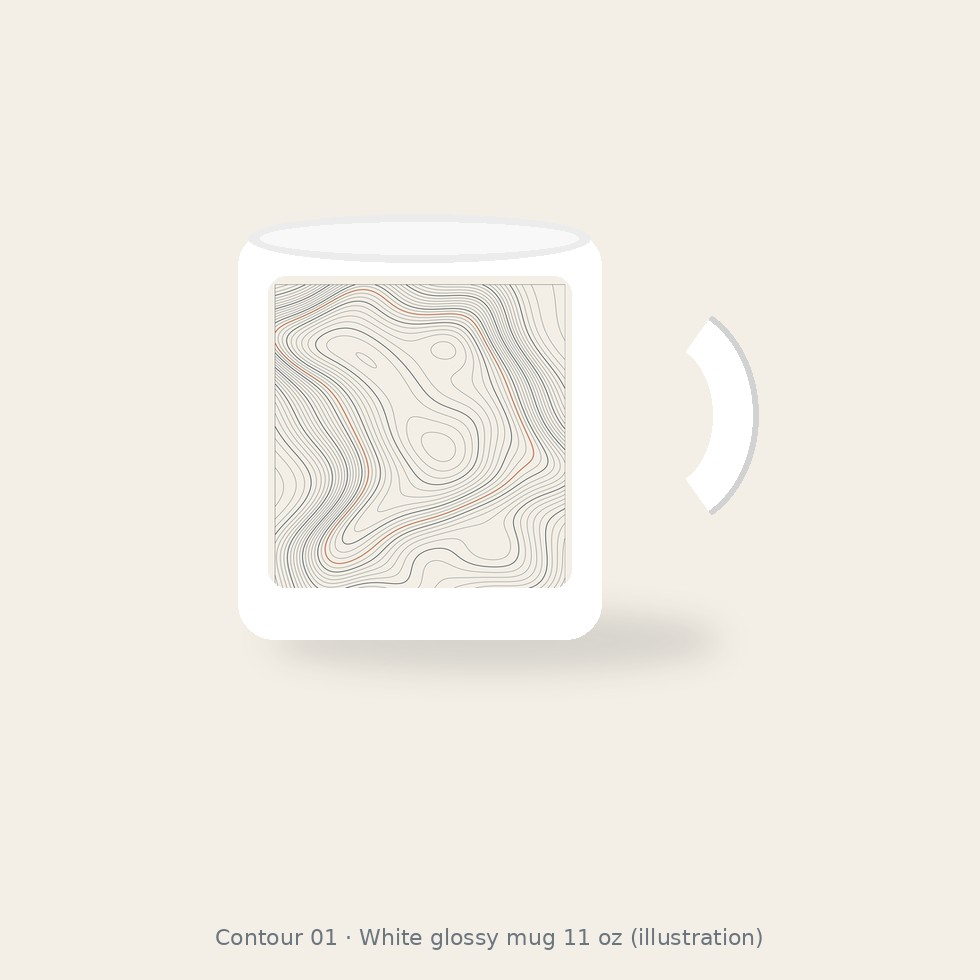
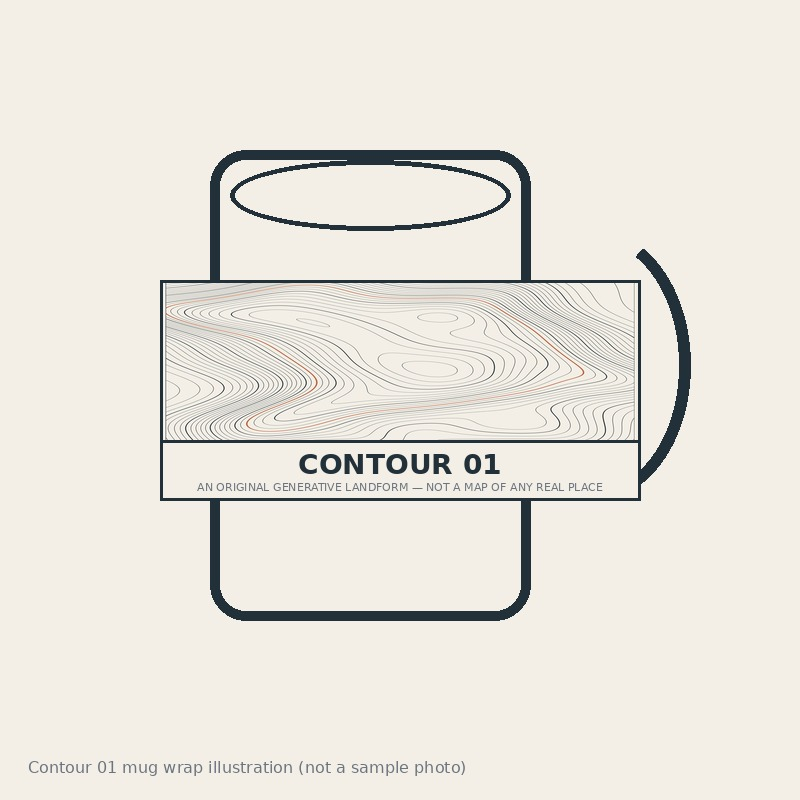
Match tapestry and mug listings to attached previews (#21)
Recreate Contour 01 preview JPGs and add catalog numbers plus required honest notes. Shop cards, prices, and buy URLs from #20 are unchanged.

Changed region(s): [[0.1875, 0.1875, 0.875, 0.7812], [0.0312, 0.9375, 0.7812, 0.9688]]

diff --git a/tapestry/index.html b/tapestry/index.html
@@ -13,6 +13,7 @@
   header .wrap { display:flex; justify-content:space-between; align-items:baseline; }
   .brand { font-weight:700; letter-spacing:0.12em; font-size:0.9rem; text-transform:uppercase; }
   .brand-sub { font-size:0.78rem; color:var(--muted); }
+  header a { color:inherit; }
   .hero { display:grid; grid-template-columns:1fr 1fr; gap:48px; padding:56px 0; align-items:start; }
   @media (max-width:800px){ .hero { grid-template-columns:1fr; } }
   .art img { width:100%; display:block; background:#fff; box-shadow:0 18px 45px rgba(34,48,58,0.22); border:1px solid rgba(34,48,58,0.15); }
@@ -39,6 +40,7 @@
   .fact a { color:var(--ink); }
   footer { border-top:1px solid var(--ink); padding:22px 0 34px; font-size:0.78rem; color:var(--muted); }
   footer p + p { margin-top:6px; }
+  footer a { color:inherit; }
 </style>
 </head>
 <body>
@@ -48,69 +50,62 @@
       <div class="brand">TurboFounder Inc</div>
       <div class="brand-sub">Sold and shipped from the United States</div>
     </div>
-    <div class="brand-sub">Print shop &mdash; v1</div>
+    <div class="brand-sub"><a href="../shop/">All prints</a></div>
   </div>
 </header>
 <main class="wrap">
   <section class="hero">
     <figure class="art">
       <img src="contour-01-tapestry-preview.jpg" alt="Contour 01 indoor wall tapestry 26 by 36 illustration">
-      <figcaption>Illustration of Contour 01 on a 26&Prime;&times;36&Prime; indoor wall tapestry. Not a photo of a finished sample.</figcaption>
+      <figcaption>Illustration only. Not a photo of a finished sample.</figcaption>
     </figure>
     <div>
-      <div class="eyebrow">Original art &middot; Contour 01</div>
-      <h1>Indoor Wall Tapestry</h1>
-      <p class="subtitle">26&Prime;&times;36&Prime; polyester wall hanging with Contour 01. Indoor use. Made on demand.</p>
+      <div class="eyebrow">Original art · Contour 01</div>
+      <h1>Contour 01 Indoor Wall Tapestry 26×36</h1>
+      <p class="subtitle">26&Prime;&times;36&Prime; indoor wall tapestry. Contour 01 landform. Made on demand.</p>
       <div class="desc">
-        <p>Same Contour 01 landform as the poster &mdash; original generative art, not a map of any real place. Printed on one side of a hemmed polyester tapestry. This listing is the 26&Prime;&times;36&Prime; indoor size only.</p>
-        <p>Printed on demand by Printful after you pay. Cut-and-sew size can shift a little. Indoor wall hanging, not outdoor fabric and not a framed poster. We have not held a finished sample.</p>
+        <p>Same Contour 01 generative landform as the poster &mdash; not a map of any real place. This listing is the 26&Prime;&times;36&Prime; indoor size only.</p>
+        <p>Printed on demand by Printful after you pay. Indoor hanging, not a framed poster and not outdoor fabric.</p>
       </div>
       <div class="offer" id="checkout">
-        <div class="offer-name">Contour 01 Indoor Wall Tapestry &middot; 26&Prime;&times;36&Prime;</div>
-        <div class="offer-detail">Printful indoor wall tapestry &middot; one-sided print. SKU TFI-C01-TAP2636.</div>
-        <div class="price-row">
-          <span class="price">$36</span>
-          <span class="ship-note">+ $5.69 US shipping</span>
-        </div>
-        <div class="total-note">$41.69 total to a US address. Shipping is shown up front &mdash; no surprise at checkout.</div>
-        <a class="buy" href="https://buy.stripe.com/8x2fZg1Md2vF5HL7qf1wY0A">Buy &mdash; $36 + $5.69 shipping</a>
+        <div class="offer-name">Contour 01 Indoor Wall Tapestry · 26&Prime;&times;36&Prime;</div>
+        <div class="offer-detail">Printful Indoor Wall Tapestry · catalog 973 · 26×36 only. SKU TFI-C01-TAP2636.</div>
+        <div class="price-row"><span class="price">$36</span><span class="ship-note">+ $5.69 US shipping</span></div>
+        <div class="total-note">$41.69 collected at checkout. Made on demand.</div>
+        <a class="buy" href="https://buy.stripe.com/8x2fZg1Md2vF5HL7qf1wY0A">Buy</a>
       </div>
     </div>
   </section>
   <section class="facts">
-    <h2>The honest fine print</h2>
+    <h2>Details</h2>
     <div class="facts-grid">
       <div class="fact">
-        <h3>Size</h3>
-        <p>26&Prime;&times;36&Prime; only on this page. Hemmed edges. Cut-and-sew blanks can vary a little from the listed size.</p>
-      </div>
-      <div class="fact">
         <h3>Blank</h3>
-        <p>100% polyester indoor wall tapestry. Print on the face. Not a framed poster, not a throw, not outdoor fabric.</p>
+        <p>Printful catalog 973, 26&Prime;&times;36&Prime; only. Indoor wall tapestry. US stock.</p>
       </div>
       <div class="fact">
         <h3>Fulfillment</h3>
-        <p>Printful, made on demand after you pay. Typical production 2&ndash;5 business days, then US transit.</p>
+        <p>Printful, made on demand. Typical print 2&ndash;5 business days, then US transit.</p>
       </div>
       <div class="fact">
         <h3>Shipping</h3>
-        <p>US shipping $5.69 charged at checkout. Not eaten. United States addresses only for v1.</p>
+        <p>US shipping $5.69 charged at checkout. Not eaten.</p>
       </div>
       <div class="fact">
-        <h3>The art</h3>
-        <p>Original Contour 01 generative landform owned by TurboFounder Inc. Not a licensed map. No real place.</p>
+        <h3>Honest notes</h3>
+        <p>Illustration only. Sublimation may shift ~2&Prime;. Wrinkling. US stock. Machine wash cold.</p>
       </div>
       <div class="fact">
-        <h3>What this is not</h3>
-        <p>Not the framed poster. Not the throw blanket. Illustration only. No fake reviews. See <a href="../shop/">all prints</a>.</p>
+        <h3>Also listed</h3>
+        <p>Back to <a href="../shop/">all prints</a>.</p>
       </div>
     </div>
   </section>
 </main>
 <footer>
   <div class="wrap">
-    <p>TurboFounder Inc &middot; Everett, MA &middot; Print-on-demand via Printful after payment.</p>
-    <p>Original Contour 01 art. No reviews invented. No ads. <a href="../shop/" style="color:inherit">All physical SKUs</a></p>
+    <p>TurboFounder Inc · Everett, MA · Print-on-demand via Printful after payment.</p>
+    <p>Original Contour 01 art. No reviews invented. No ads. <a href="../shop/">All prints</a></p>
   </div>
 </footer>
 </body>

diff --git a/mug/index.html b/mug/index.html
@@ -13,6 +13,7 @@
   header .wrap { display:flex; justify-content:space-between; align-items:baseline; }
   .brand { font-weight:700; letter-spacing:0.12em; font-size:0.9rem; text-transform:uppercase; }
   .brand-sub { font-size:0.78rem; color:var(--muted); }
+  header a { color:inherit; }
   .hero { display:grid; grid-template-columns:1fr 1fr; gap:48px; padding:56px 0; align-items:start; }
   @media (max-width:800px){ .hero { grid-template-columns:1fr; } }
   .art img { width:100%; display:block; background:#fff; box-shadow:0 18px 45px rgba(34,48,58,0.22); border:1px solid rgba(34,48,58,0.15); }
@@ -39,6 +40,7 @@
   .fact a { color:var(--ink); }
   footer { border-top:1px solid var(--ink); padding:22px 0 34px; font-size:0.78rem; color:var(--muted); }
   footer p + p { margin-top:6px; }
+  footer a { color:inherit; }
 </style>
 </head>
 <body>
@@ -48,69 +50,62 @@
       <div class="brand">TurboFounder Inc</div>
       <div class="brand-sub">Sold and shipped from the United States</div>
     </div>
-    <div class="brand-sub">Print shop &mdash; v1</div>
+    <div class="brand-sub"><a href="../shop/">All prints</a></div>
   </div>
 </header>
 <main class="wrap">
   <section class="hero">
     <figure class="art">
       <img src="contour-01-mug-preview.jpg" alt="Contour 01 white glossy mug 11 ounce illustration">
-      <figcaption>Illustration of Contour 01 on a white glossy 11 oz mug. Not a photo of a finished sample.</figcaption>
+      <figcaption>Illustration only. Not a photo of a finished sample.</figcaption>
     </figure>
     <div>
-      <div class="eyebrow">Original art &middot; Contour 01</div>
-      <h1>White Glossy Mug</h1>
-      <p class="subtitle">11 oz white ceramic mug with Contour 01. Glossy finish. Made on demand.</p>
+      <div class="eyebrow">Original art · Contour 01</div>
+      <h1>Contour 01 White Glossy Mug 11 oz</h1>
+      <p class="subtitle">11 oz white glossy ceramic mug. Contour 01 wrap. Made on demand.</p>
       <div class="desc">
-        <p>Contour 01 wrapped on a white glossy ceramic mug. Same original landform as the poster &mdash; not a map of any real place. This listing is the 11 oz white glossy blank only.</p>
-        <p>Printed on demand by Printful after you pay. Ceramic, C-handle. Printful lists the blank as microwave- and dishwasher-safe; we have not held or washed a sample of this print.</p>
+        <p>Contour 01 on a white glossy ceramic mug. Same original landform as the poster &mdash; not a map of any real place. This listing is the 11 oz blank only.</p>
+        <p>Printed on demand by Printful after you pay. Ships as a separate shipment from other SKUs.</p>
       </div>
       <div class="offer" id="checkout">
-        <div class="offer-name">Contour 01 White Glossy Mug &middot; 11 oz</div>
-        <div class="offer-detail">Printful white glossy ceramic mug &middot; C-handle. SKU TFI-C01-MUG11.</div>
-        <div class="price-row">
-          <span class="price">$24</span>
-          <span class="ship-note">+ $6.69 US shipping</span>
-        </div>
-        <div class="total-note">$30.69 total to a US address. Shipping is shown up front &mdash; no surprise at checkout.</div>
-        <a class="buy" href="https://buy.stripe.com/9B600iduVb2bfil25V1wY0z">Buy &mdash; $24 + $6.69 shipping</a>
+        <div class="offer-name">Contour 01 White Glossy Mug · 11 oz</div>
+        <div class="offer-detail">Printful White Glossy Mug · catalog 19 · 11 oz. SKU TFI-C01-MUG11.</div>
+        <div class="price-row"><span class="price">$24</span><span class="ship-note">+ $6.69 US shipping</span></div>
+        <div class="total-note">$30.69 collected at checkout. Made on demand.</div>
+        <a class="buy" href="https://buy.stripe.com/9B600iduVb2bfil25V1wY0z">Buy</a>
       </div>
     </div>
   </section>
   <section class="facts">
-    <h2>The honest fine print</h2>
+    <h2>Details</h2>
     <div class="facts-grid">
       <div class="fact">
-        <h3>Size</h3>
-        <p>11 oz (about 0.33 L) only on this page. White glossy ceramic. C-handle. Quantity is 1.</p>
-      </div>
-      <div class="fact">
         <h3>Blank</h3>
-        <p>Printful white glossy mug. Adult drinkware. Not the tumbler. Not the pet bowl.</p>
+        <p>Printful catalog 19, 11 oz white glossy ceramic. C-handle. Dishwasher/microwave safe.</p>
       </div>
       <div class="fact">
         <h3>Fulfillment</h3>
-        <p>Printful, made on demand after you pay. Typical production 2&ndash;5 business days, then US transit.</p>
+        <p>Printful, made on demand. Typical print 2&ndash;5 business days, then US transit. Separate shipment.</p>
       </div>
       <div class="fact">
         <h3>Shipping</h3>
-        <p>US shipping $6.69 charged at checkout. Not eaten. United States addresses only for v1.</p>
+        <p>US shipping $6.69 charged at checkout. Not eaten.</p>
       </div>
       <div class="fact">
-        <h3>The art</h3>
-        <p>Original Contour 01 generative landform owned by TurboFounder Inc. Not a licensed map. No real place.</p>
+        <h3>Honest notes</h3>
+        <p>Illustration only. ±0.1&Prime; print variance. Manufacturer sticker possible. Separate shipment. Dishwasher/microwave safe.</p>
       </div>
       <div class="fact">
-        <h3>What this is not</h3>
-        <p>Not the 20 oz tumbler. Illustration only. No fake reviews. See <a href="../shop/">all prints</a>.</p>
+        <h3>Also listed</h3>
+        <p>Back to <a href="../shop/">all prints</a>.</p>
       </div>
     </div>
   </section>
 </main>
 <footer>
   <div class="wrap">
-    <p>TurboFounder Inc &middot; Everett, MA &middot; Print-on-demand via Printful after payment.</p>
-    <p>Original Contour 01 art. No reviews invented. No ads. <a href="../shop/" style="color:inherit">All physical SKUs</a></p>
+    <p>TurboFounder Inc · Everett, MA · Print-on-demand via Printful after payment.</p>
+    <p>Original Contour 01 art. No reviews invented. No ads. <a href="../shop/">All prints</a></p>
   </div>
 </footer>
 </body>
